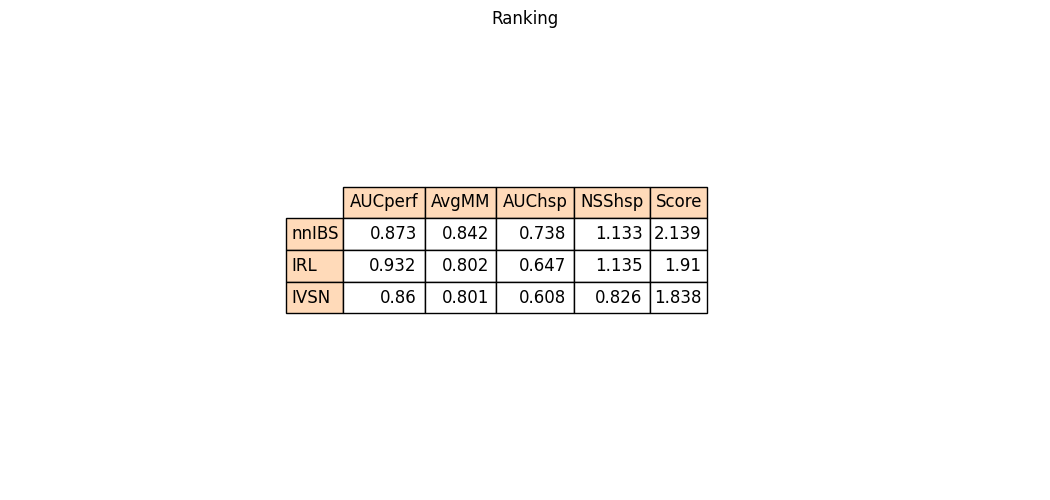
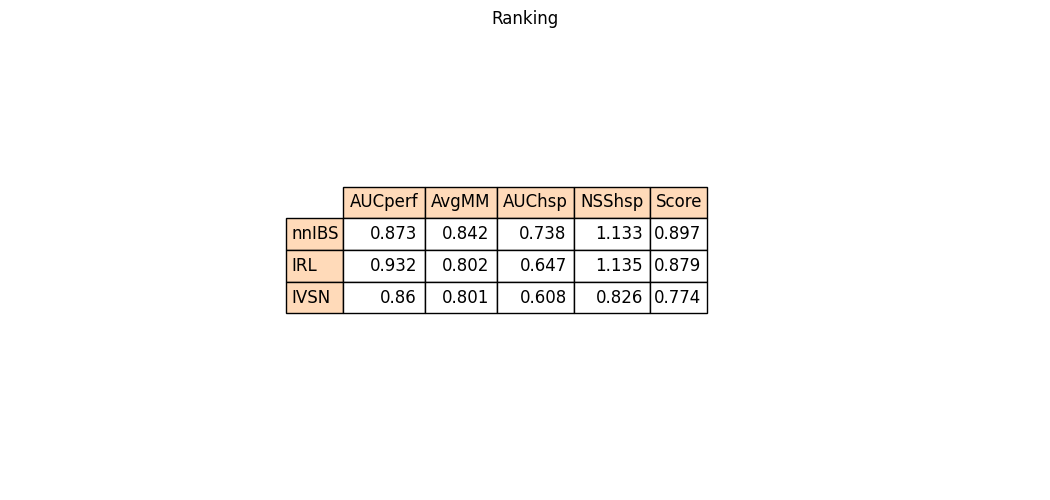
Final score corregido

diff --git a/Metrics/scripts/utils.py b/Metrics/scripts/utils.py
@@ -36,12 +36,10 @@ def average_results(datasets_results_dict, save_path, filename):
             if model == 'Humans': continue
             if not model in final_table:
                 final_table[model] = {'AUCperf': 0, 'AvgMM': 0, 'AUChsp': 0, 'NSShsp': 0, 'Score': 0}
-            number_of_metrics  = 4
                 
             # AUCperf is not computed for IRL in Interiors and Unrestricted datasets
             if not 'AUCperf' in dataset_res[model]:
                 dif_aucperf = 0
-                number_of_metrics -= 1
             else:
                 # AUCperf is expressed as 1 subtracted the absolute difference between Human and model's AUCperf, maximizing the score of those models who were closest to human subjects
                 dif_aucperf = 1 - abs(human_aucperf - dataset_res[model]['AUCperf'])
@@ -52,14 +50,19 @@ def average_results(datasets_results_dict, save_path, filename):
             final_table[model]['AvgMM']   += dataset_res[model]['AvgMM'] / number_of_datasets
             final_table[model]['AUChsp']  += dataset_res[model]['AUChsp'] / number_of_datasets
             final_table[model]['NSShsp']  += dataset_res[model]['NSShsp'] / number_of_datasets
-
-            final_table[model]['Score'] += (final_table[model]['AUCperf'] + final_table[model]['AvgMM'] + final_table[model]['AUChsp'] + final_table[model]['NSShsp']) / number_of_metrics
     
-    # Round values
+    # Average and round values
     for model in final_table:
+        final_score = 0
+        number_of_metrics = 0
+
         scores = final_table[model]
         for metric in scores:
+            if scores[metric] != 0:
+                final_score       += scores[metric]
+                number_of_metrics += 1
             scores[metric] = np.round(scores[metric], 3)
+        final_table[model]['Score'] = np.round(final_score / number_of_metrics, 3)
 
     save_to_json(path.join(save_path, filename), final_table)
     final_table = create_df(final_table).T
